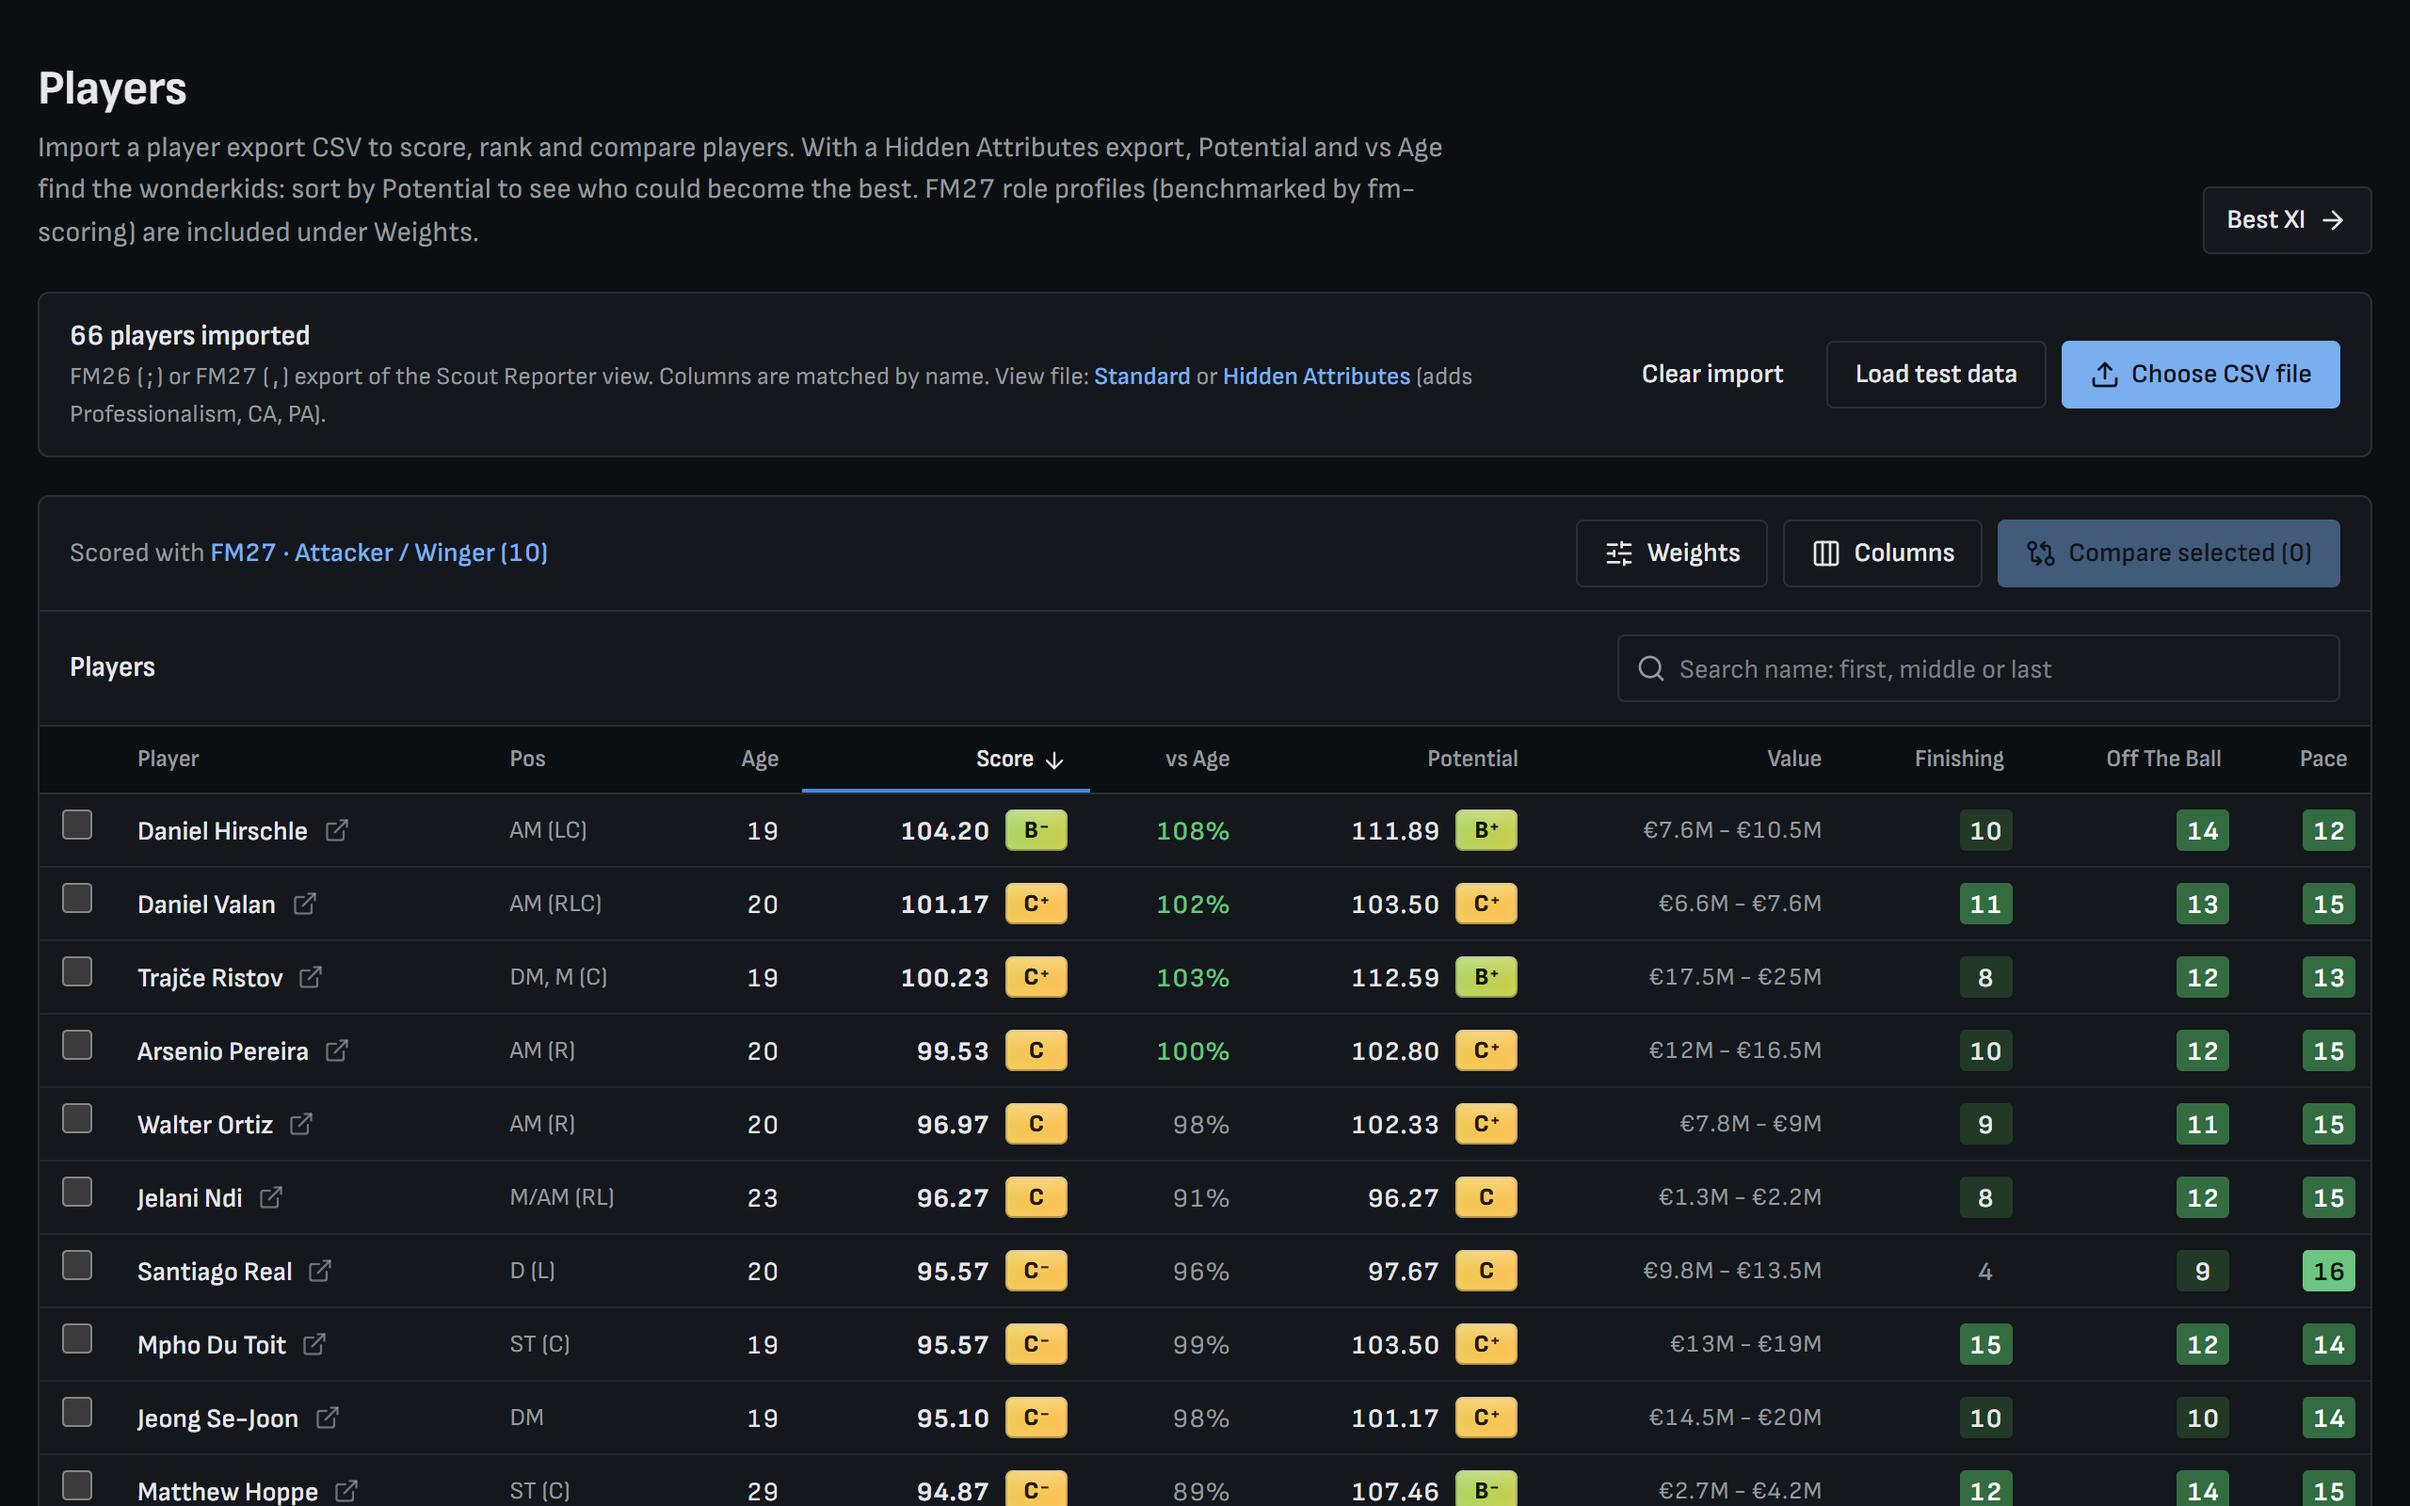
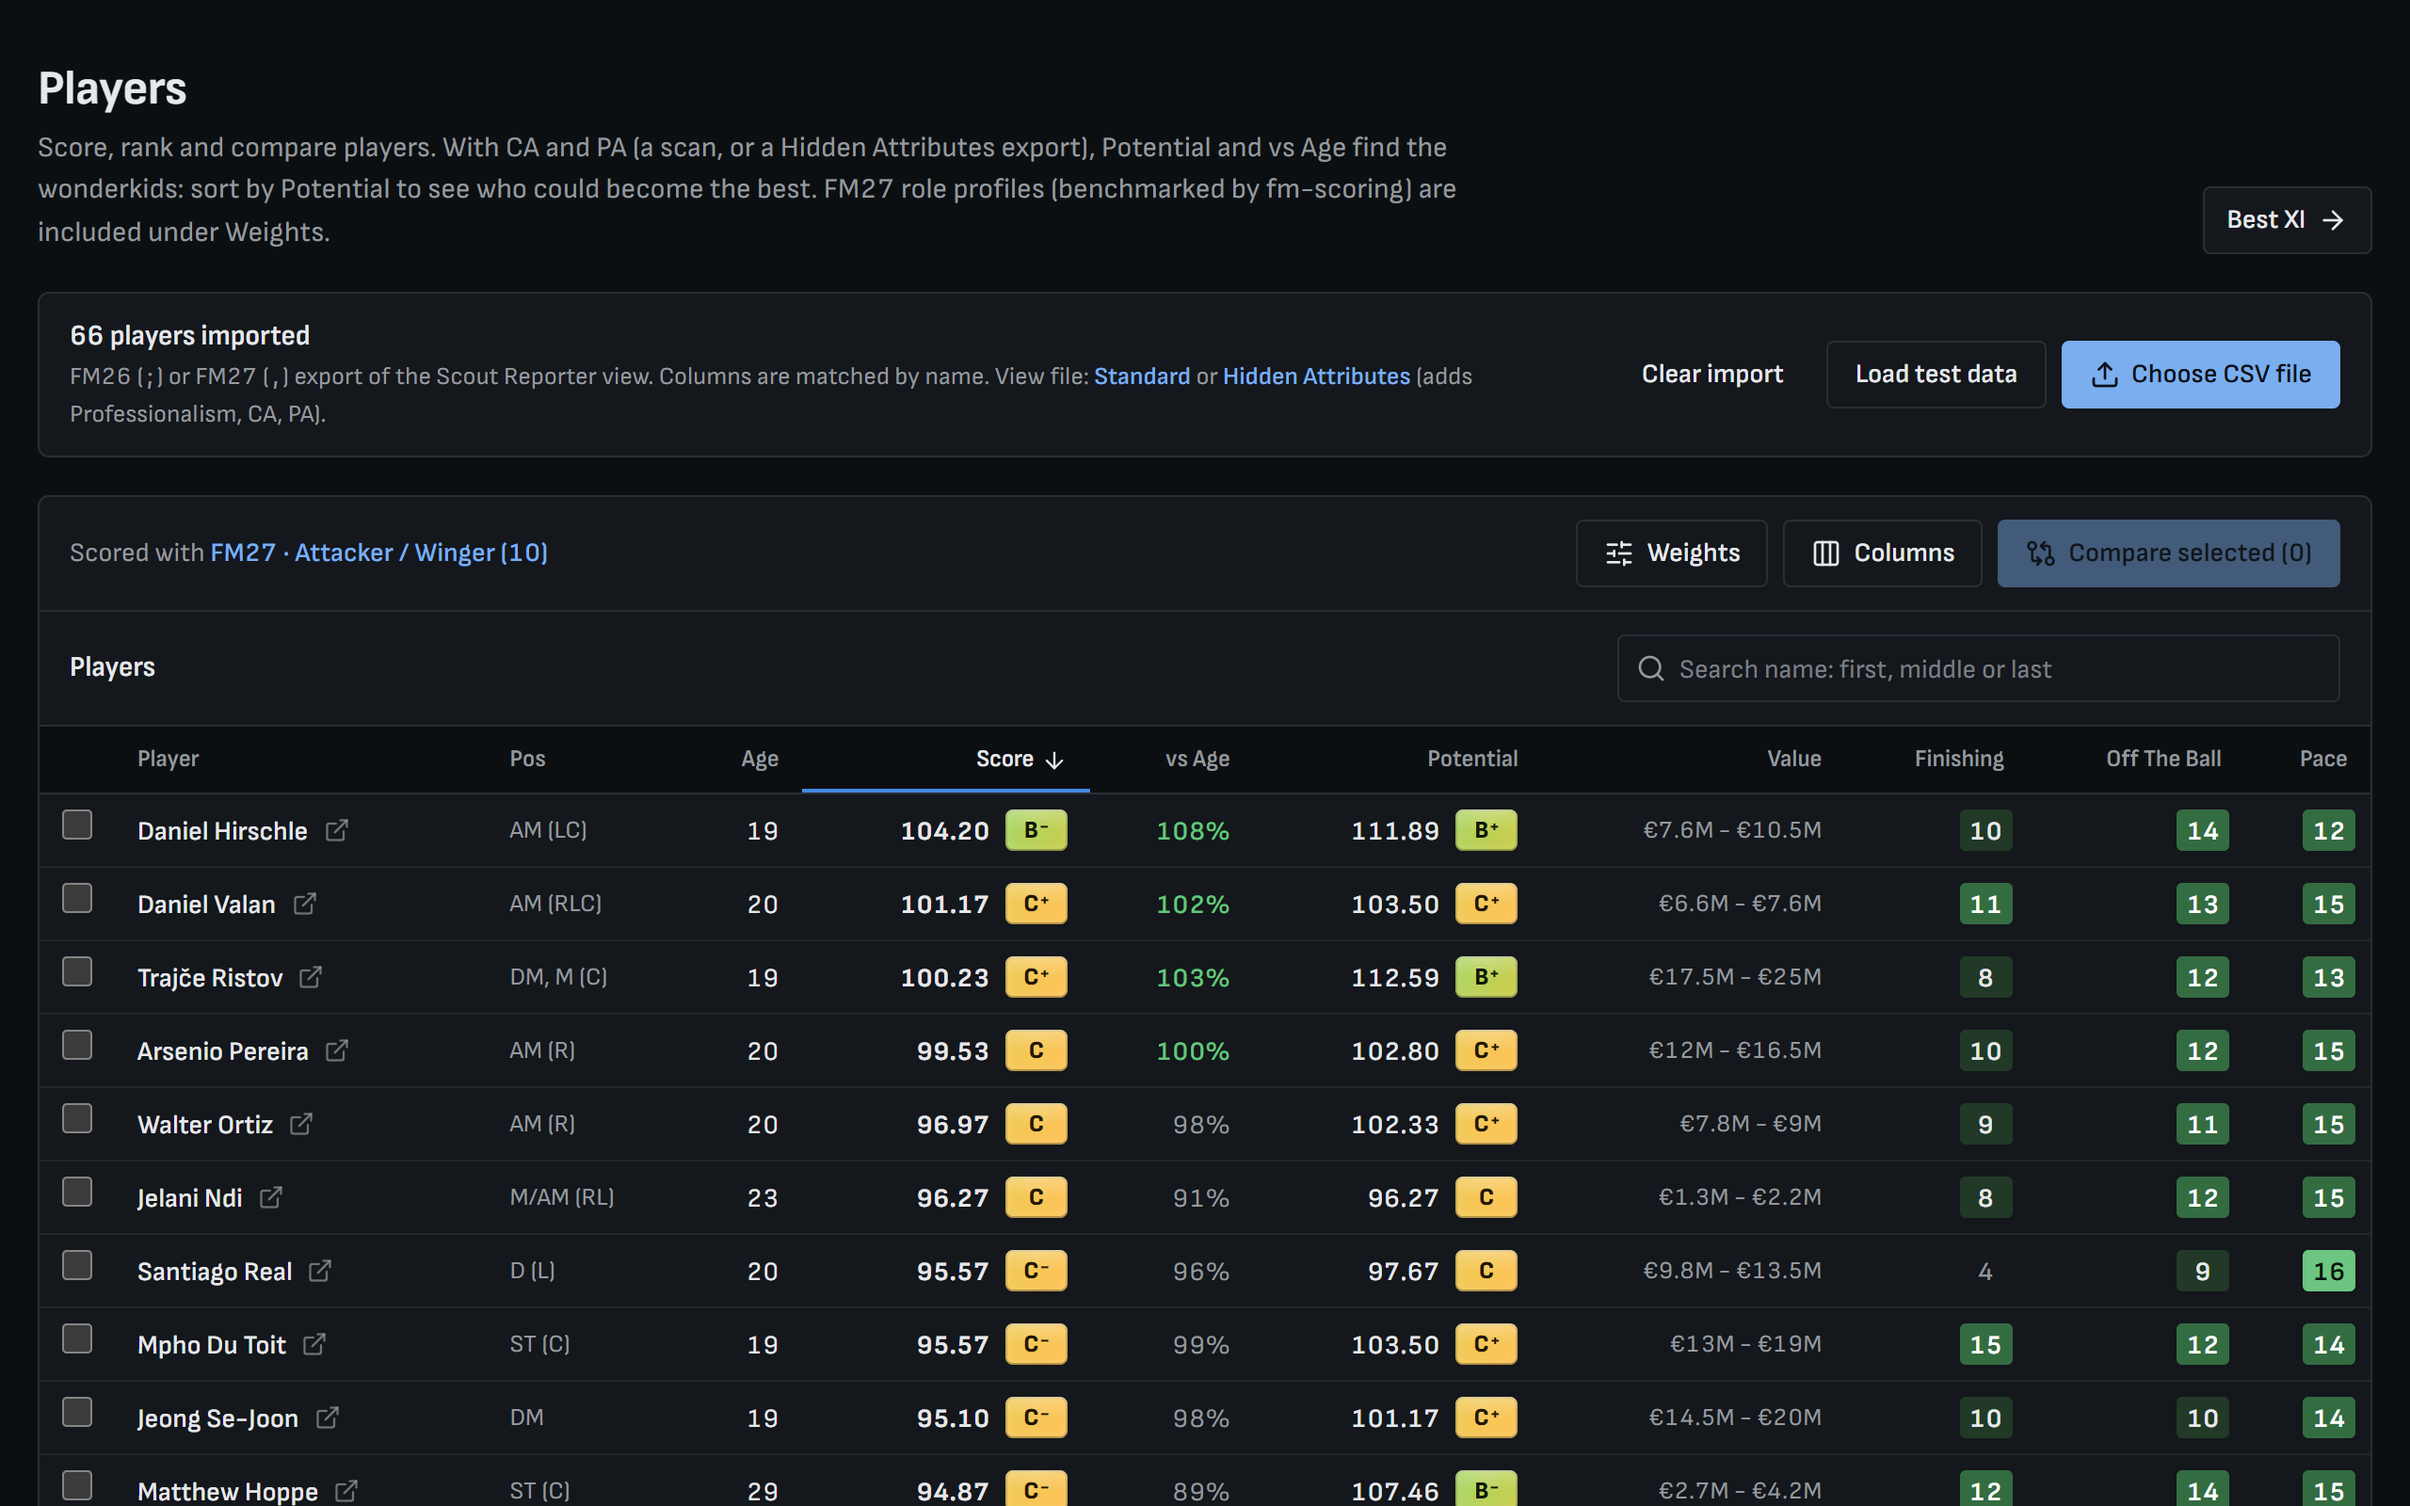
feat(desktop): no CSV import panel in the desktop app
The desktop app gets its players, staff and squad from Scan FM, so the import row
(Clear import, Load test data, Choose CSV file) is left out on every screen there.
The website keeps it.

- next.config passes SCOUTREPORTER_TARGET to the pages; DESKTOP_BUILD
  (packages/ui/desktop/target.ts) is known on the server too, so nothing flashes.
- Empty screens in the app say how to scan (Player or Staff Search, then F9 or
  Scan FM) instead of pointing at the import panel.
- Desktop smoke test checks that no screen shows the import panel.

Changed region(s): [[0.0, 0.0938, 0.5938, 0.1562]]

diff --git a/packages/ui/components/AttributeModeHome.tsx b/packages/ui/components/AttributeModeHome.tsx
@@ -11,6 +11,7 @@ import { usePlayersData } from "./PlayersDataProvider";
 import { HighlightConfigModal } from "./HighlightedAttributesConfig";
 import { CsvImportPanel } from "./CsvImportPanel";
 import { PageHeader } from "./PageHeader";
+import { NoImport } from "./ImportPanel";
 
 export default function AttributeModeHome() {
   const { state } = usePlayersData();
@@ -32,7 +33,7 @@ export default function AttributeModeHome() {
             </Link>
           }
         >
-          Import a player export CSV to score, rank and compare players. With a Hidden Attributes export,
+          Score, rank and compare players. With CA and PA (a scan, or a Hidden Attributes export),
           Potential and vs Age find the wonderkids: sort by Potential to see who could become the best. FM27
           role profiles (benchmarked by fm-scoring) are included under Weights.
         </PageHeader>
@@ -100,9 +101,9 @@ export default function AttributeModeHome() {
         )}
 
         {!players && (
-          <p className="rounded-md border border-dashed border-line px-6 py-10 text-center text-sm text-muted">
+          <NoImport desktop={<>No players yet. In FM, open a Player Search and press <kbd className="rounded border border-line bg-surface px-1.5 text-[12px] font-semibold text-ink">F9</kbd> or Scan FM.</>}>
             No CSV imported yet. Choose a CSV file above, or load the test data to look around.
-          </p>
+          </NoImport>
         )}
       </main>
 

diff --git a/packages/ui/features/squad/SquadClient.tsx b/packages/ui/features/squad/SquadClient.tsx
@@ -4,7 +4,7 @@ import { useEffect, useMemo, useState } from "react";
 import { RotateCcw } from "lucide-react";
 import { usePlayersData, type PlayerWithGroups } from "@scoutreporter/ui/components/PlayersDataProvider";
 import { useSquadData } from "@scoutreporter/ui/components/SquadDataProvider";
-import { ImportPanel, STORAGE_FULL_MESSAGE } from "@scoutreporter/ui/components/ImportPanel";
+import { ImportPanel, NoImport, STORAGE_FULL_MESSAGE } from "@scoutreporter/ui/components/ImportPanel";
 import { PageHeader } from "@scoutreporter/ui/components/PageHeader";
 import { Button } from "@scoutreporter/ui/components/Button";
 import { Notice } from "@scoutreporter/ui/components/Notice";
@@ -197,7 +197,7 @@ export default function SquadClient() {
         />
 
         {players.length === 0 && (
-          <div className="rounded-md border border-dashed border-line px-6 py-10 text-center text-sm text-muted">
+          <NoImport desktop={<>No squad yet. Every Scan FM reads your own club&apos;s players too.</>}>
             <p>No squad imported yet. Choose your squad CSV above, or load the test data to look around.</p>
             {scoutingCount > 0 && scouting.state.csvText && (
               <p className="mt-2">
@@ -211,7 +211,7 @@ export default function SquadClient() {
                 </button>
               </p>
             )}
-          </div>
+          </NoImport>
         )}
 
         {analysis && (

diff --git a/packages/ui/components/ImportPanel.tsx b/packages/ui/components/ImportPanel.tsx
@@ -3,10 +3,12 @@
 import { useState, type ReactNode } from "react";
 import { AlertTriangle, Upload } from "lucide-react";
 import { Button, LINK_BUTTON_CLASS } from "./Button";
+import { DESKTOP_BUILD } from "../desktop/target";
 
 /**
  * CSV import row: title, one-line help, and Clear / Load test data / Choose file. The data side
  * (parsing, storage) belongs to the caller: `onLoad` returns a message to show, or null when all went well.
+ * Not shown in the desktop app, where the data comes from Scan FM.
  */
 export function ImportPanel({
   title,
@@ -59,6 +61,8 @@ export function ImportPanel({
       event.target.value = "";
     }
   };
+
+  if (DESKTOP_BUILD) return null;
 
   return (
     <section aria-label="Import" className="panel">
@@ -114,3 +118,15 @@ export function ImportPanel({
 
 export const STORAGE_FULL_MESSAGE =
   "Import loaded in this tab only: browser storage is full or blocked. Free space or allow storage to keep data across tabs and visits.";
+
+/**
+ * What a screen shows before there is any data: how to import a CSV on the website, or how to scan
+ * in the desktop app (which has no import panel).
+ */
+export function NoImport({ children, desktop }: { children: ReactNode; desktop: ReactNode }) {
+  return (
+    <div className="rounded-md border border-dashed border-line px-6 py-10 text-center text-sm text-muted">
+      {DESKTOP_BUILD ? desktop : children}
+    </div>
+  );
+}

diff --git a/packages/ui/features/best-xi/BestXiClient.tsx b/packages/ui/features/best-xi/BestXiClient.tsx
@@ -6,6 +6,7 @@ import Link from "next/link";
 import { ArrowLeft, RotateCcw, X } from "lucide-react";
 import { usePlayersData } from "@scoutreporter/ui/components/PlayersDataProvider";
 import { CsvImportPanel } from "@scoutreporter/ui/components/CsvImportPanel";
+import { NoImport } from "@scoutreporter/ui/components/ImportPanel";
 import { PageHeader } from "@scoutreporter/ui/components/PageHeader";
 import { Button } from "@scoutreporter/ui/components/Button";
 import { Notice } from "@scoutreporter/ui/components/Notice";
@@ -236,9 +237,9 @@ export default function BestXiClient() {
         <CsvImportPanel testFixture="attribute" onImported={() => update({ excluded: [] })} />
 
         {players.length === 0 && (
-          <p className="rounded-md border border-dashed border-line px-6 py-10 text-center text-sm text-muted">
+          <NoImport desktop={<>No players yet. In FM, open a Player Search and press <kbd className="rounded border border-line bg-surface px-1.5 text-[12px] font-semibold text-ink">F9</kbd> or Scan FM.</>}>
             No CSV imported yet. Choose a CSV file above, or load the test data to look around.
-          </p>
+          </NoImport>
         )}
 
         {players.length > 0 && (

diff --git a/packages/ui/features/staff/StaffClient.tsx b/packages/ui/features/staff/StaffClient.tsx
@@ -27,6 +27,7 @@ import {
 } from "@scoutreporter/core/staff/staff-roles";
 import { StaffDetailModal } from "./StaffDetailModal";
 import { StaffImportPanel } from "./StaffImportPanel";
+import { NoImport } from "@scoutreporter/ui/components/ImportPanel";
 import { RatingCell, ScoreCell, type ValueMode } from "./StaffCells";
 import { compareNames } from "@scoutreporter/core/text";
 
@@ -194,10 +195,10 @@ export default function StaffClient() {
         <StaffImportPanel onImported={resetPage} />
 
         {staff.length === 0 && (
-          <p className="rounded-md border border-dashed border-line px-6 py-10 text-center text-sm text-muted">
+          <NoImport desktop={<>No staff yet. In FM, open a Staff Search and press <kbd className="rounded border border-line bg-surface px-1.5 text-[12px] font-semibold text-ink">F9</kbd> or Scan FM.</>}>
             No staff imported yet. In FM, open a staff search, import the Staff view, select the staff and export
             a CSV, then import it above.
-          </p>
+          </NoImport>
         )}
 
         {staff.length > 0 && (

diff --git a/packages/ui/features/staff/BackroomClient.tsx b/packages/ui/features/staff/BackroomClient.tsx
@@ -21,6 +21,7 @@ import {
 } from "@scoutreporter/core/staff/backroom";
 import { STAFF_ROLES, STAFF_ROLE_GROUPS, rolesForJob, scoreStaff } from "@scoutreporter/core/staff/staff-roles";
 import { StaffImportPanel } from "./StaffImportPanel";
+import { NoImport } from "@scoutreporter/ui/components/ImportPanel";
 import { StaffDetailModal } from "./StaffDetailModal";
 import { ScoreCell } from "./StaffCells";
 
@@ -150,9 +151,9 @@ export default function BackroomClient() {
         <StaffImportPanel onImported={() => update({ excluded: [] })} />
 
         {staff.length === 0 && (
-          <p className="rounded-md border border-dashed border-line px-6 py-10 text-center text-sm text-muted">
+          <NoImport desktop={<>No staff yet. In FM, open a Staff Search and press <kbd className="rounded border border-line bg-surface px-1.5 text-[12px] font-semibold text-ink">F9</kbd> or Scan FM.</>}>
             No staff imported yet. Choose a staff CSV above, or load the test data to look around.
-          </p>
+          </NoImport>
         )}
 
         {staff.length > 0 && (

diff --git a/apps/web/next.config.ts b/apps/web/next.config.ts
@@ -14,6 +14,8 @@ const desktop = process.env.SCOUTREPORTER_TARGET === "desktop";
 const nextConfig: NextConfig = {
   ...(desktop && { output: "standalone" as const, distDir: ".next-desktop" }),
   pageExtensions: desktop ? ["desktop.tsx", "tsx", "ts", "jsx", "js"] : ["tsx", "ts", "jsx", "js"],
+  /* Read by the pages (packages/ui/desktop/target.ts) to leave out what the desktop app does not need. */
+  env: { SCOUTREPORTER_TARGET: desktop ? "desktop" : "web" },
   transpilePackages: ["@scoutreporter/core", "@scoutreporter/ui"],
   outputFileTracingRoot: repoRoot,
   /* The fixtures route reads the CSVs at request time; make sure deployments ship them. */

diff --git a/packages/ui/desktop/target.ts b/packages/ui/desktop/target.ts
@@ -1,0 +1,13 @@
+/**
+ * True in the desktop app's build of the pages (SCOUTREPORTER_TARGET=desktop, passed in by
+ * apps/web/next.config.ts). Known while rendering on the server too, unlike the desktop bridge, so
+ * desktop-only differences never flash on first paint. False on the website and in Storybook.
+ */
+export const DESKTOP_BUILD: boolean = (() => {
+  try {
+    // Next replaces this expression with the value at build time; Storybook has no `process`.
+    return process.env.SCOUTREPORTER_TARGET === "desktop";
+  } catch {
+    return false;
+  }
+})();
